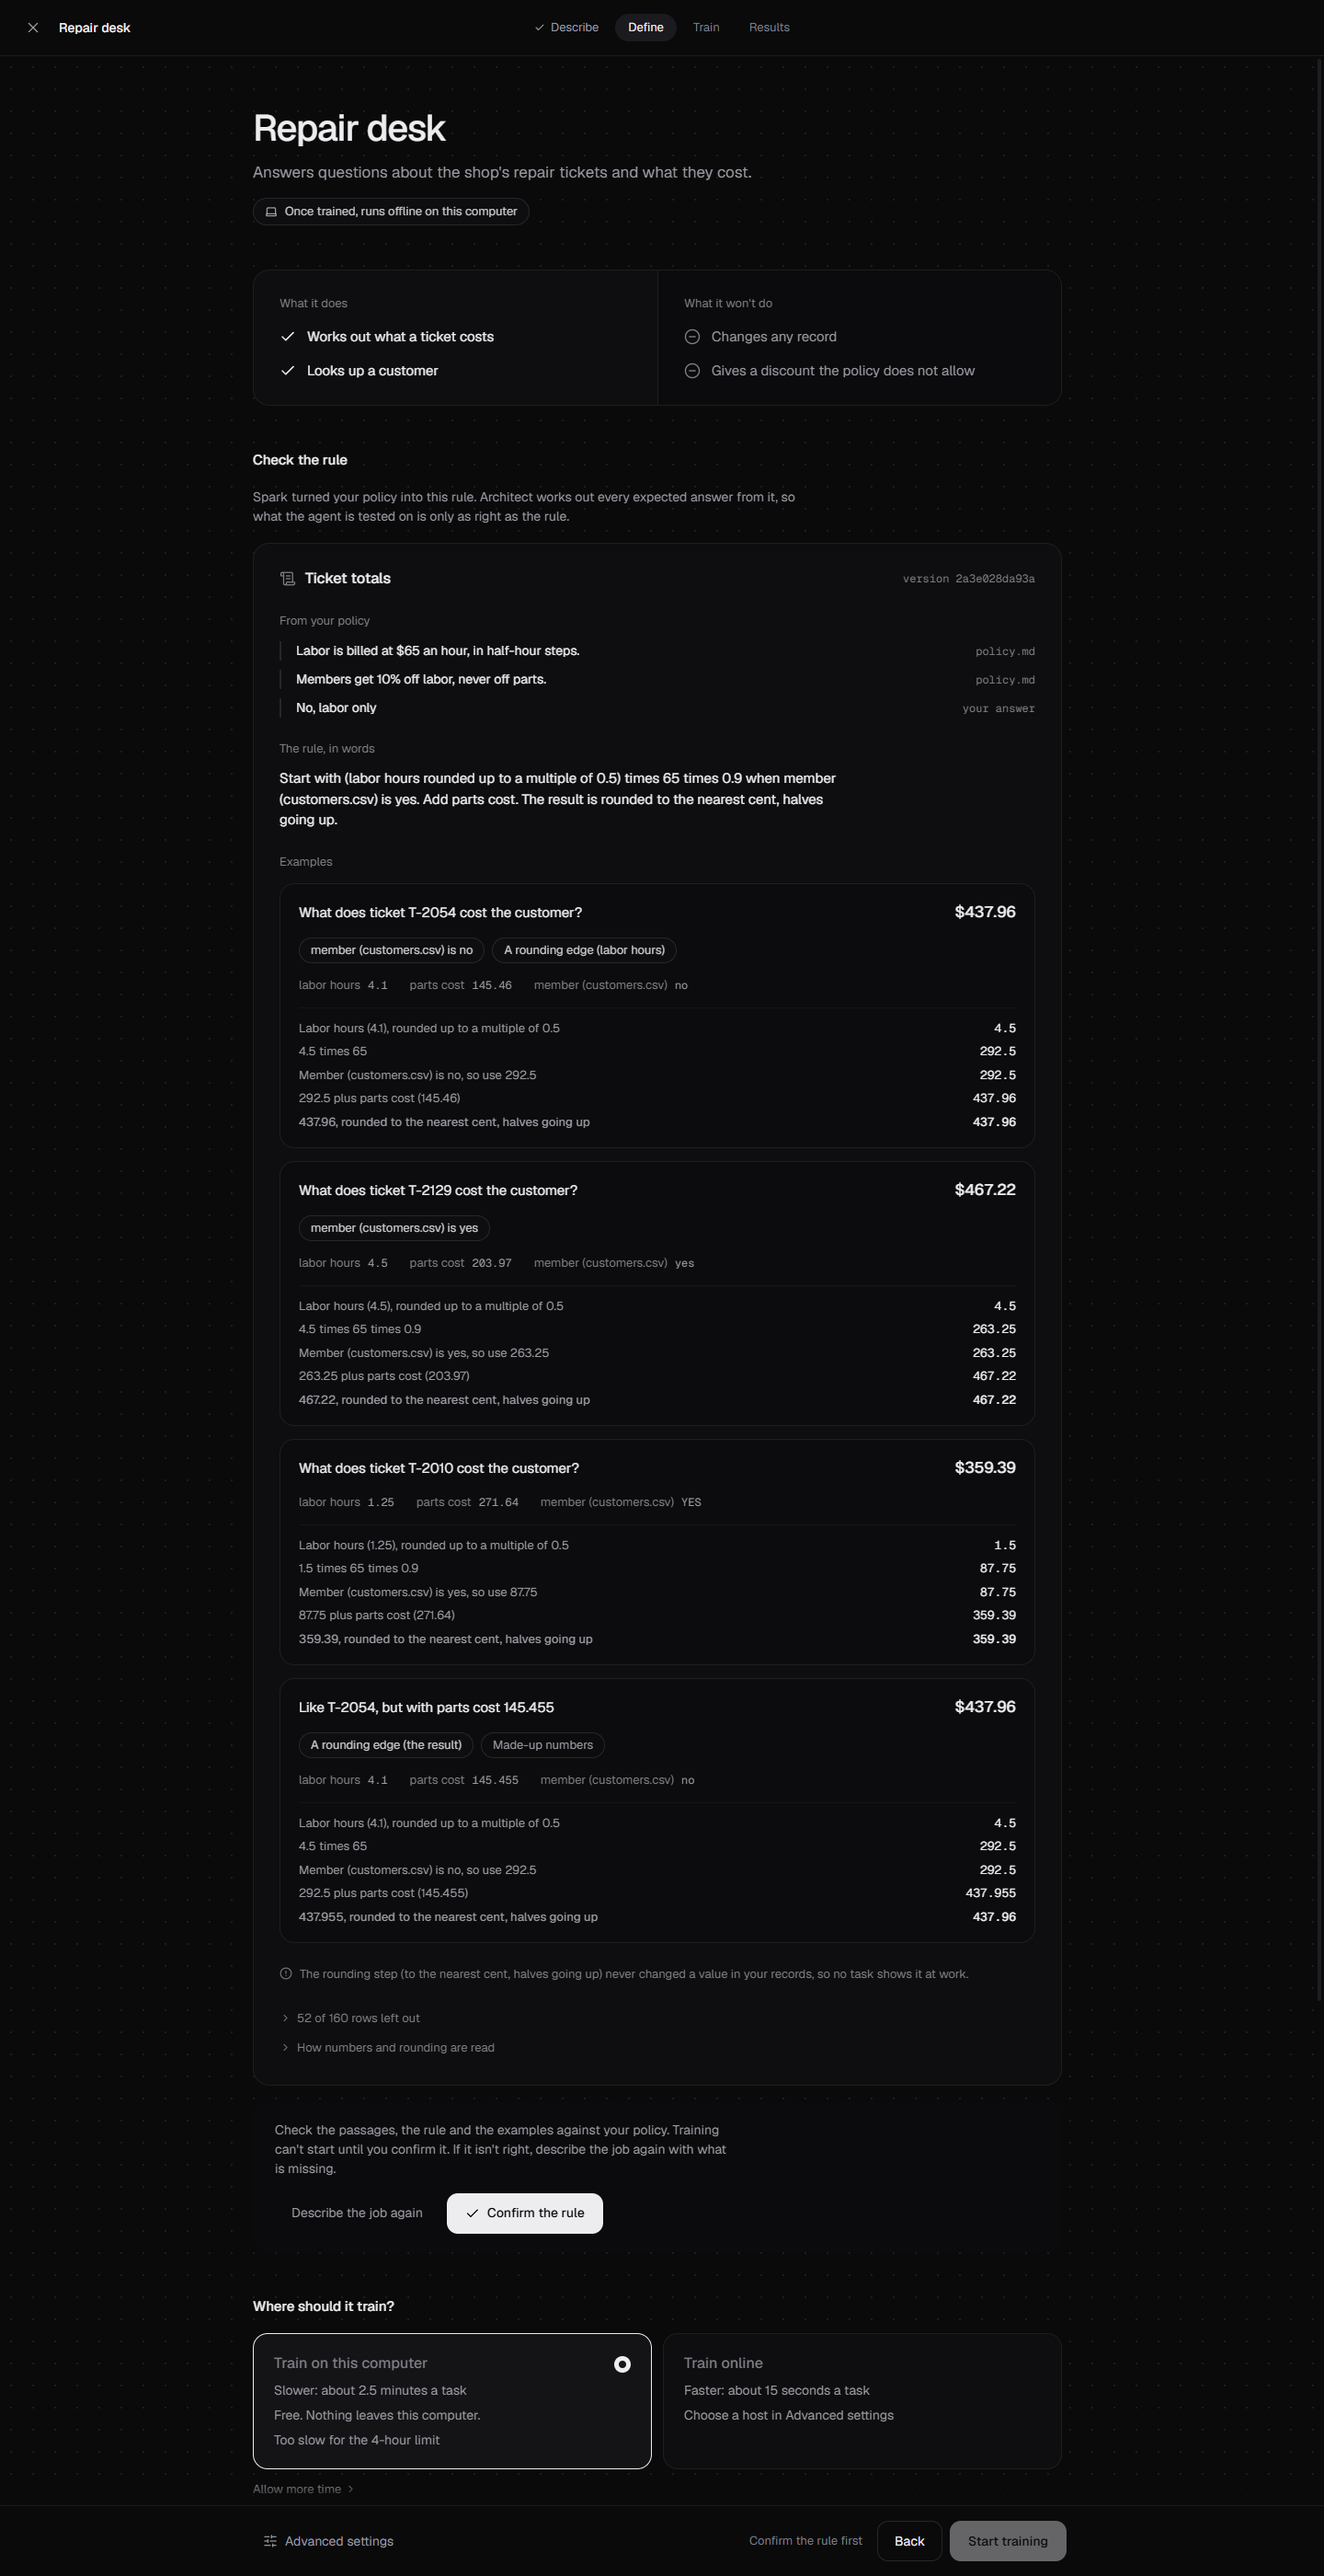
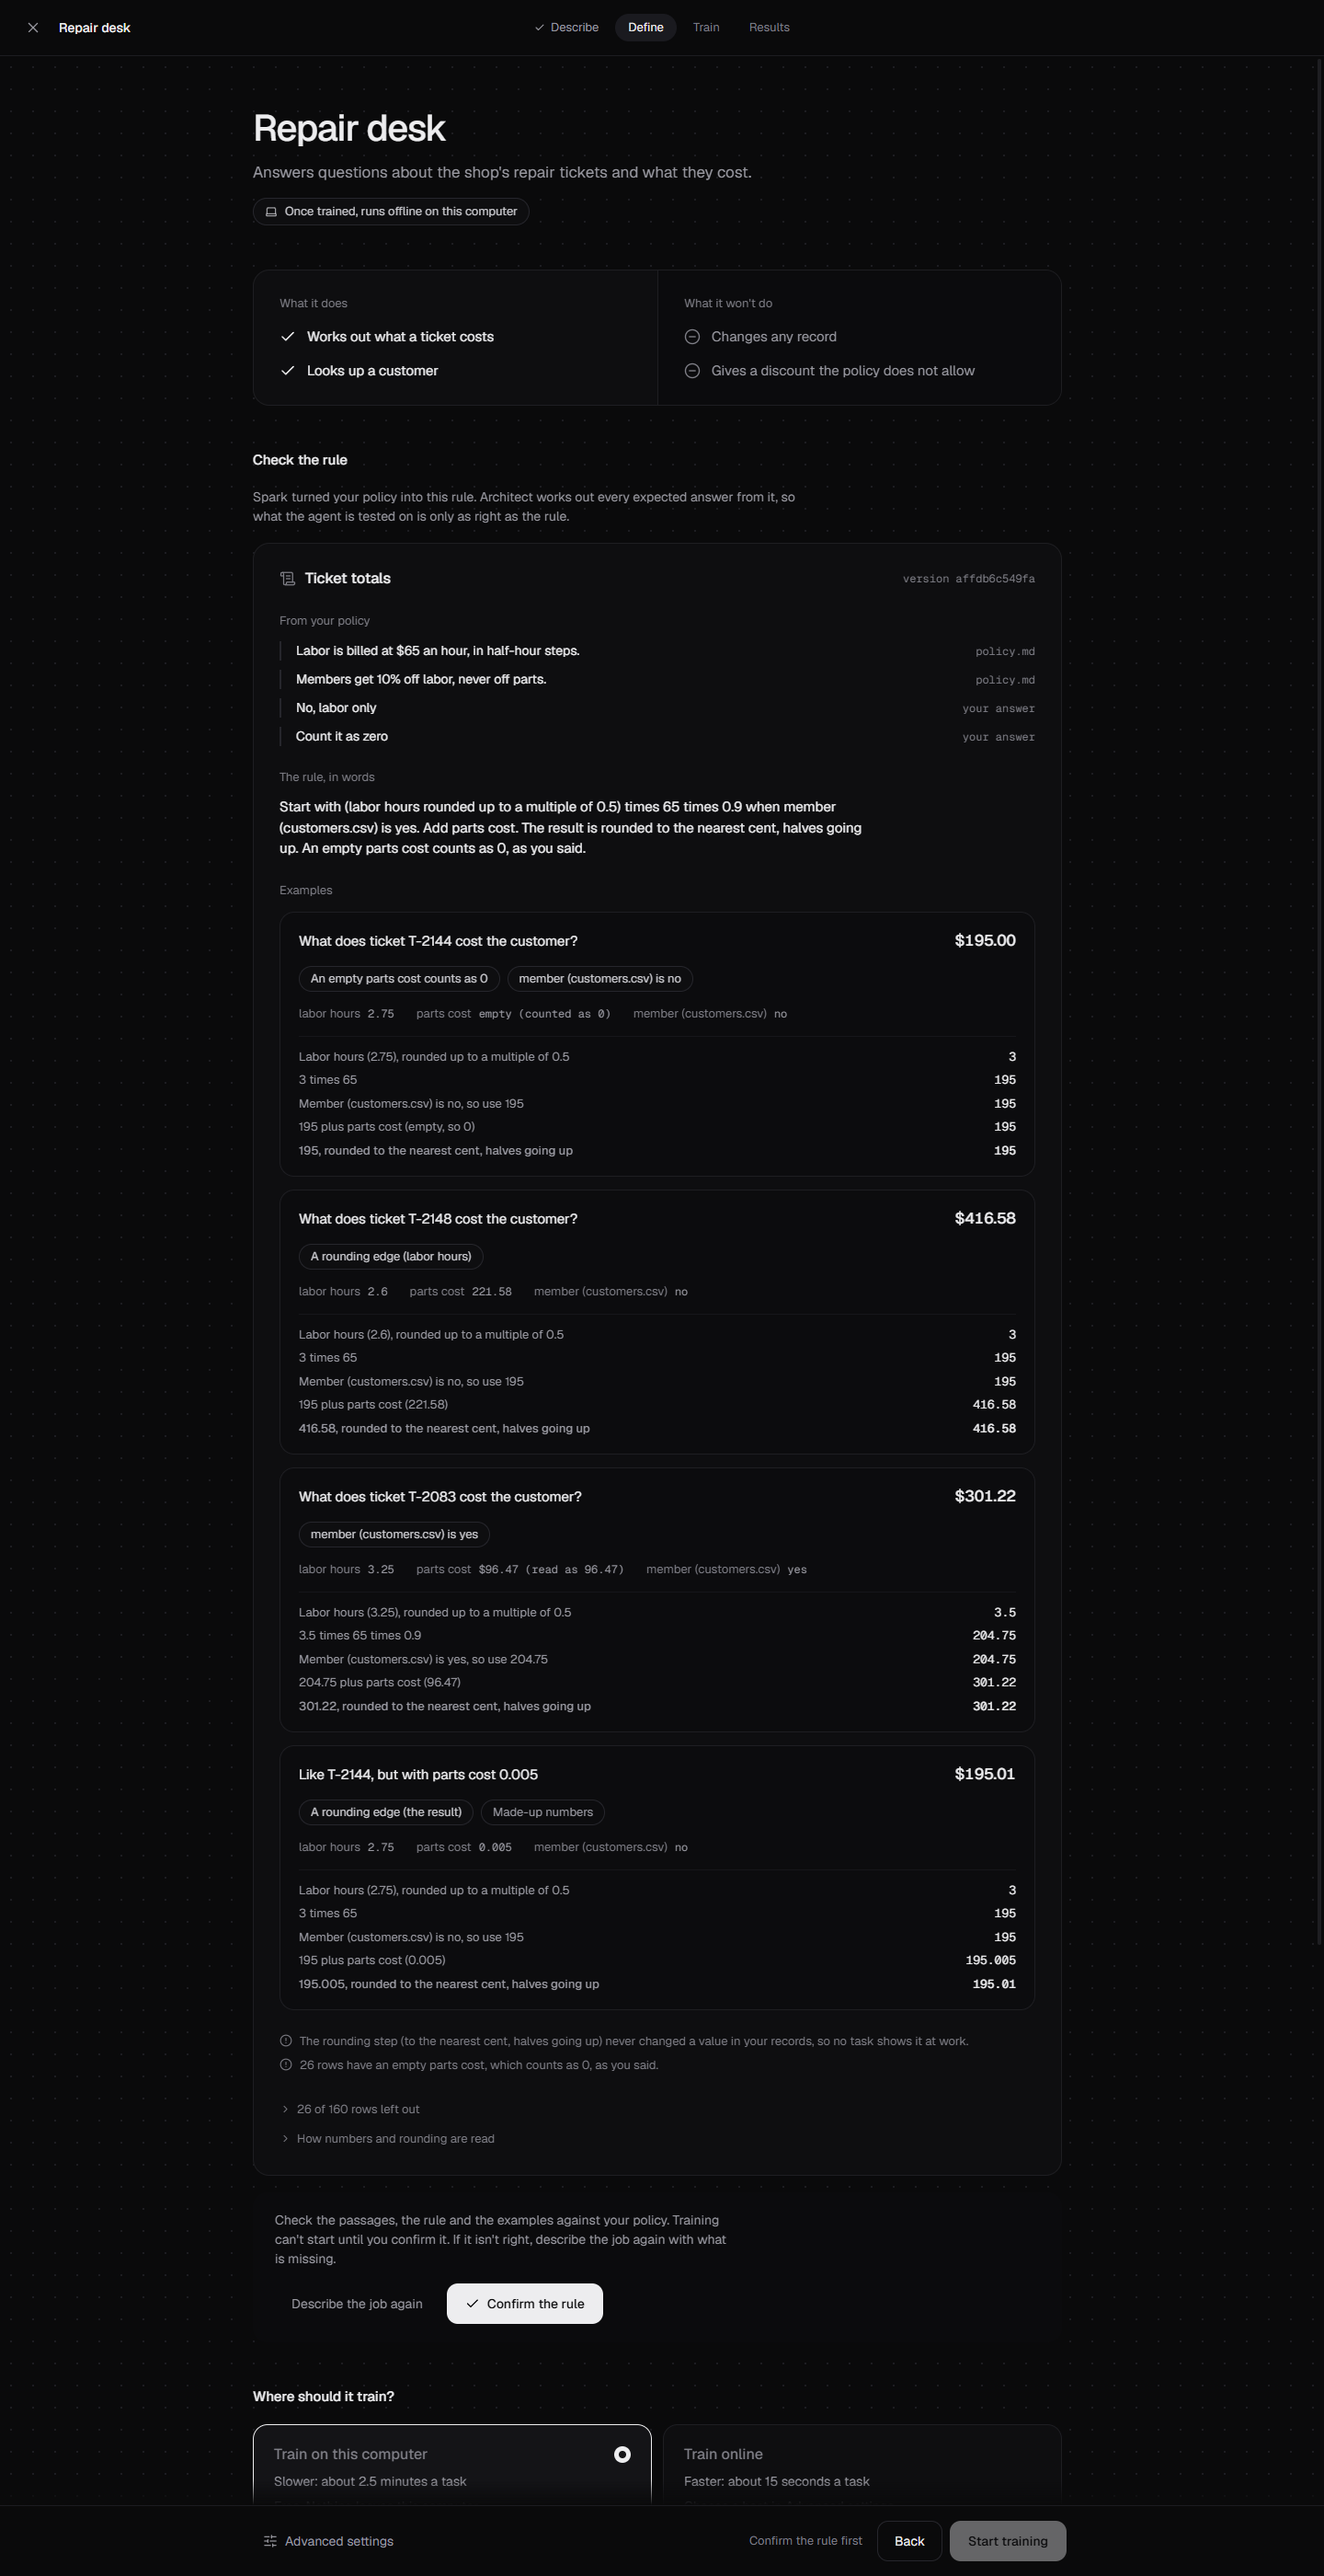
test(desktop): have the scripted teacher ask about an empty parts cost, and show the answer on Define
The hidden end-to-end of the rule now goes the way the real session did: the discount question, then what a ticket with no parts cost counts as, whose two answers are Architect's and not the teacher's. Choosing Count it as zero puts the sentence in the rule in words, the answer among the passages, how many rows it reaches, an example whose parts cost is empty, and what the tickets that say N/A are still left out for.

Captures: rule-empty and rule-define, in both themes.

diff --git a/apps/desktop/e2e/rule.spec.ts b/apps/desktop/e2e/rule.spec.ts
@@ -5,7 +5,7 @@ import { fileURLToPath } from 'node:url';
 import { expect, test, type Page } from '@playwright/test';
 import type { Job, MentorConfig, Task } from '@architect/shared';
 import { goTo, launchApp, settle, updateSettings, type LaunchedApp } from './app';
-import { bikeDraft, bikeShop, OPEN_QUESTION, POLICY, type BikeShop } from './bike';
+import { bikeDraft, bikeShop, EMPTY_QUESTION, OPEN_QUESTION, POLICY, type BikeShop } from './bike';
 import {
   startFakeStudent,
   startScriptedMentor,
@@ -46,7 +46,7 @@ function reply(request: MentorChatBody): unknown {
   if (request.response_format?.json_schema?.name === 'job_draft') {
     drafting += 1;
     // The first draft rests on something the policy leaves open, so it is asked about instead.
-    return bikeDraft(drafting > 1, labor);
+    return bikeDraft(drafting - 1, labor);
   }
   // A training round's request: a plain whole-harness draft, so training has something to measure.
   return {
@@ -181,10 +181,23 @@ function cost(ticket: string): number {
   return paid + Math.round(Number((row[4] ?? '').replace('$', '')) * 100);
 }
 
-async function reviewTheJob(page: Page): Promise<string> {
+/**
+ * Answers the teacher's two questions about the rule, the discount and then what a ticket with no
+ * parts cost counts as, and goes on to Define. `shot` names a capture of the second.
+ */
+async function reviewTheJob(page: Page, shot?: string): Promise<string> {
   const question = page.getByText(OPEN_QUESTION.question);
   await expect(question).toBeVisible();
   await page.getByRole('button', { name: 'No, labor only' }).click();
+  // About an empty cell the teacher's own options are not used: a rule can only do two things with
+  // one, and those are what the person is offered.
+  await expect(page.getByText(EMPTY_QUESTION.question)).toBeVisible();
+  await expect(page.getByRole('button', { name: 'Count it as zero' })).toBeVisible();
+  await expect(page.getByRole('button', { name: 'Leave those rows out' })).toBeVisible();
+  await expect(page.getByRole('button', { name: 'Zero', exact: true })).toHaveCount(0);
+  await expect(page.getByRole('button', { name: 'Draft it now' })).toHaveCount(0);
+  if (shot !== undefined) await capture(page, shot);
+  await page.getByRole('button', { name: 'Count it as zero' }).click();
   const review = page.getByRole('button', { name: 'Review the job' });
   await expect(review).toBeFocused();
   await review.click();
@@ -211,10 +224,15 @@ for (const theme of THEMES) {
     expect(told).toContain('Labor is billed at $65 an hour, in half-hour steps.');
     expect(told).toContain('Members get 10% off labor, never off parts.');
 
-    const jobId = await reviewTheJob(page);
-    expect(drafting).toBe(2);
+    const jobId = await reviewTheJob(page, `rule-empty-${theme}`);
+    expect(drafting).toBe(3);
     const answered = mentor.requests[1]?.messages.at(-1)?.content ?? '';
     expect(answered).toContain('Answer: No, labor only');
+    // What the person chose for an empty parts cost went to the teacher as what Architect does with
+    // it, in the words of the choice and not of the options the teacher wrote.
+    const emptied = mentor.requests[2]?.messages.at(-1)?.content ?? '';
+    expect(emptied).toContain('Answer: Count it as zero');
+    expect(emptied).toContain('Architect counts an empty parts_cost as 0 itself');
 
     // Define puts the rule first: the passages, the rule in words, the examples and their working.
     const section = page.getByRole('region', { name: 'Check the rule' });
@@ -225,12 +243,23 @@ for (const theme of THEMES) {
     ).toBeVisible();
     await expect(card.getByText('Members get 10% off labor, never off parts.')).toBeVisible();
     await expect(card.getByText('No, labor only', { exact: true })).toBeVisible();
-    await expect(card.getByText('your answer', { exact: true })).toBeVisible();
+    await expect(card.getByText('Count it as zero', { exact: true })).toBeVisible();
+    await expect(card.getByText('your answer', { exact: true })).toHaveCount(2);
+    // What the person said an empty parts cost counts as is part of the rule they confirm.
     await expect(
       card.getByText(
-        'Start with (labor hours rounded up to a multiple of 0.5) times 65 times 0.9 when member (customers.csv) is yes. Add parts cost. The result is rounded to the nearest cent, halves going up.',
+        'Start with (labor hours rounded up to a multiple of 0.5) times 65 times 0.9 when member (customers.csv) is yes. Add parts cost. The result is rounded to the nearest cent, halves going up. An empty parts cost counts as 0, as you said.',
       ),
     ).toBeVisible();
+    await expect(
+      card.getByText(/^\d+ rows have an empty parts cost, which counts as 0, as you said\.$/),
+    ).toBeVisible();
+    // Only an empty cell: the tickets whose parts say N/A are still left out, and say why.
+    await card.getByRole('button', { name: /rows? left out/ }).click();
+    await expect(
+      card.getByText(/parts_cost says N\/A or a dash, which is not the same as empty/),
+    ).toBeVisible();
+    await card.getByRole('button', { name: /rows? left out/ }).click();
     const examples = card.locator('ul > li').filter({ hasText: /What does ticket|Like T-/ });
     expect(await examples.count()).toBeGreaterThanOrEqual(3);
     await expect(
@@ -240,6 +269,9 @@ for (const theme of THEMES) {
       card.getByText('member (customers.csv) is no', { exact: true }).first(),
     ).toBeVisible();
     await expect(card.getByText(/A rounding edge/).first()).toBeVisible();
+    // One example is a ticket with no parts cost, shown as nothing and counted as 0.
+    await expect(card.getByText('An empty parts cost counts as 0', { exact: true })).toBeVisible();
+    await expect(card.getByText('empty (counted as 0)').first()).toBeVisible();
 
     // Each example is right: worked out again from the records, not from the mess in them.
     let checked = 0;

diff --git a/apps/desktop/e2e/bike.ts b/apps/desktop/e2e/bike.ts
@@ -138,10 +138,29 @@ export const OPEN_QUESTION = {
   question: 'Does the 10% off for members also apply to the parts?',
   options: ['No, labor only', 'Yes, parts too'],
   changesAnswers: true,
+  blankColumn: '',
+  blankFrom: '',
 };
 
-/** What the teacher drafts: the ticket's cost as a rule, and a lookup of a customer's email. */
-export function bikeDraft(settled: boolean, labor = '$65') {
+/**
+ * What Spark asked of the real bike shop's records: what a ticket with no parts cost counts as.
+ * The options it wrote are not used, since a rule can do only two things with an empty cell and
+ * Architect puts those to the person.
+ */
+export const EMPTY_QUESTION = {
+  question: 'What parts amount should be used when a ticket lists no parts cost?',
+  options: ['Zero', 'Leave those tickets out'],
+  changesAnswers: true,
+  blankColumn: 'parts_cost',
+  blankFrom: 'row',
+};
+
+/**
+ * What the teacher drafts: the ticket's cost as a rule, and a lookup of a customer's email.
+ * `answered` is how many of its questions the person has answered: it asks the one about the
+ * discount first, then the one about an empty parts cost, and then drafts.
+ */
+export function bikeDraft(answered: number, labor = '$65') {
   return {
     action: 'draft',
     message: '',
@@ -185,9 +204,9 @@ export function bikeDraft(settled: boolean, labor = '$65') {
                 passage: `Labor is billed at ${labor} an hour, in half-hour steps.`,
               },
               { file: 'policy.md', passage: 'Members get 10% off labor, never off parts.' },
-              ...(settled ? [{ file: 'answers', passage: 'No, labor only' }] : []),
+              ...(answered > 0 ? [{ file: 'answers', passage: 'No, labor only' }] : []),
             ],
-            ambiguities: settled ? [] : [OPEN_QUESTION],
+            ambiguities: answered === 0 ? [OPEN_QUESTION] : answered === 1 ? [EMPTY_QUESTION] : [],
             steps: steps(),
             result: 'total',
           },
